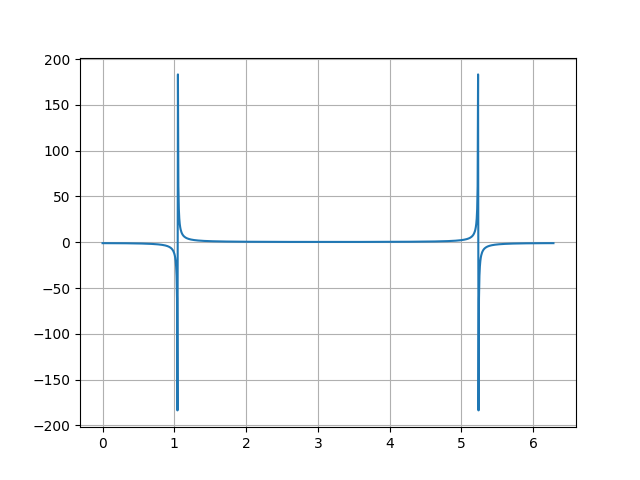
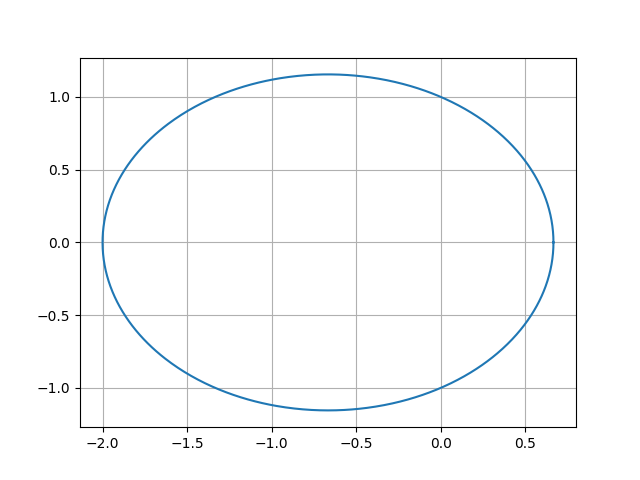
1

diff --git a/4.py b/4.py
@@ -2,20 +2,18 @@ import matplotlib.pyplot as plt
 import numpy as np
 
 
-def func(a, b, x):
-    x = np.arange(0 , 10, 0.001)
-    if x < a:
-        return a ** 2
-    elif a <= x and x <= b:
-        return x ** 2
-    elif x > b:
-        return b ** 2
-    
-    x = np.linspace(-5, 10, 500)
-    y = func(a, b, x)
-
+def func(a, b):
+    y = []
+    x = []
+    for m in np.arange(0, 10, 0.001):
+        x.append(m)
+        if m < a:
+            y.append(a ** 2)
+        elif a <= m and m <= b:
+            y.append(m ** 2)
+        elif m > b:
+            y.append(b ** 2)
     plt.plot(x, y)
-    plt.grid(True)
     plt.savefig('func.png')
 
-func(1, 5, 7)
+func(3, 7)

diff --git a/star.py b/star.py
@@ -1,0 +1,31 @@
+import matplotlib.pyplot as plt
+import numpy as np
+
+
+def star():
+
+    t = np.arange(0, 4*np.pi, 0.01)
+    x = 12 * np.cos(t) + 8*np.cos(1.5*t)
+    y = 12 * np.sin(t) + 8*np.sin(1.5*t)
+
+    plt.plot(x, y)
+    plt.savefig('star.png')
+
+
+star()
+
+
+def rotate_star(alpha, x_0 = 0, y_0 = 0, x_1 = 20, y_1 = 0):
+
+    t = np.arange(0, 4*np.pi, 0.01)
+    x = 12 * np.cos(t) + 8*np.cos(1.5*t)
+    y = 12 * np.sin(t) + 8*np.sin(1.5*t)
+
+    X = x_0 + (x - x_1)*np.cos(alpha) - (y - y_1)*np.sin(alpha)
+    Y = y_0 + (y - y_1)*np.cos(alpha) + (x - x_1)*np.sin(alpha)
+
+    plt.plot(X, Y)
+    plt.savefig('rotate_star.png')
+
+
+rotate_star(np.pi)

diff --git a/3.py b/3.py
@@ -7,8 +7,11 @@ def ellipse(e, p):
     phi = np.linspace(0, 2 * np.pi, 1000)
     r = p / (1 + e * np.cos(phi))
 
-    plt.plot(phi, r)
+    x = r * np.cos(phi)
+    y = r * np.sin(phi)
+
+    plt.plot(x, y)
     plt.grid(True)
     plt.savefig('ellipse.png') 
 
-ellipse(e=-2, p=1)
+ellipse(e=0.5, p=1)
